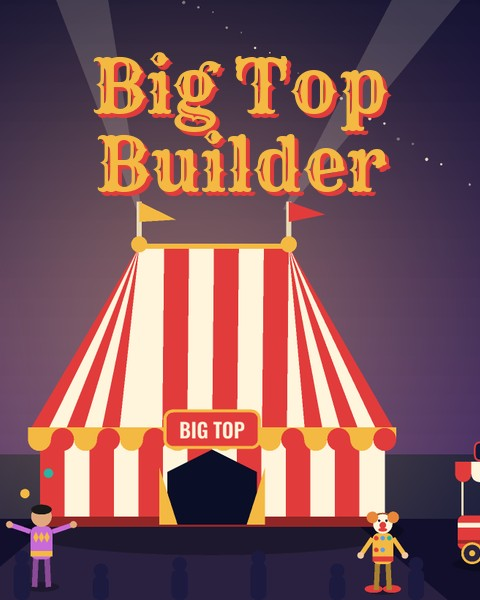
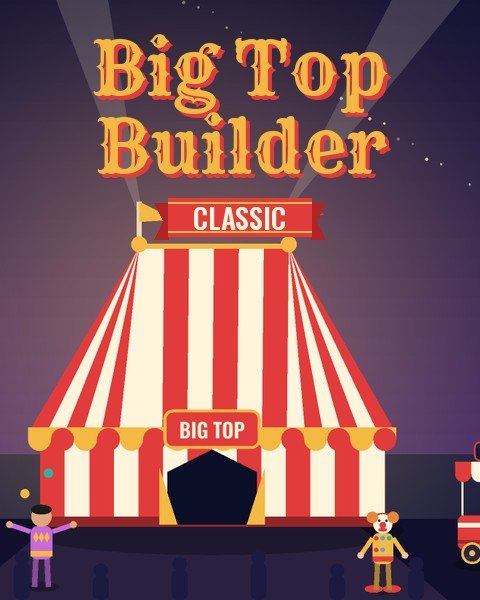
Launcher 3.4.1: Big Top Builder is now Big Top Builder Classic
Claude-Session: https://claude.ai/code/session_01Fykqkgo3Avp28FJNCduKcb

Changed region(s): [[0.1875, 0.06, 0.8125, 0.42]]

diff --git a/src/IroniteLauncher/MainWindow.Library.cs b/src/IroniteLauncher/MainWindow.Library.cs
@@ -21,7 +21,7 @@ public partial class MainWindow
         new("klondike", "FEATURED · CARD GAMES", "KLONDIKE", "GOLD RUSH SOLITAIRE"),
         new("rewindlife", "FREE DEMO · SIMULATION", "REWIND LIFE", "MAPLE GROVE, 1986"),
         new("carnival", "FREE DEMO · SIMULATION", "CARNIVAL CONSTRUCTOR", "A TRAVELING CARNIVAL SIM"),
-        new("bigtop", "FREE DEMO · SIMULATION", "BIG TOP BUILDER", "A CIRCUS MANAGEMENT SIM"),
+        new("bigtop", "FREE DEMO · SIMULATION", "BIG TOP BUILDER CLASSIC", "A CIRCUS MANAGEMENT SIM"),
         new("euchre", "FEATURED · CARD GAMES", "EUCHRE", "A KITCHEN-TABLE CLASSIC"),
         new("oldmaid", "FEATURED · CARD GAMES", "OLD MAID", "A VICTORIAN PARLOR GAME"),
         new("spades", "NEW · CARD GAMES", "SPADES", "A BROOKLYN ROOFTOP CARD GAME"),

diff --git a/CHANGELOG.md b/CHANGELOG.md
@@ -4,6 +4,11 @@ All notable changes to Ironite Launcher are recorded here.
 Versions follow Semantic Versioning (MAJOR.MINOR.PATCH): MAJOR for big overhauls,
 MINOR for new games and features, PATCH for fixes.
 
+## [3.4.1] - 2026-11-11
+
+### Changed
+- Big Top Builder is now called Big Top Builder Classic, in the Library, the featured carousel and on its cover art. If you have it installed, nothing changes: it keeps its play time, achievements and saves.
+
 ## [3.4.0] - 2026-11-11
 
 ### Added
